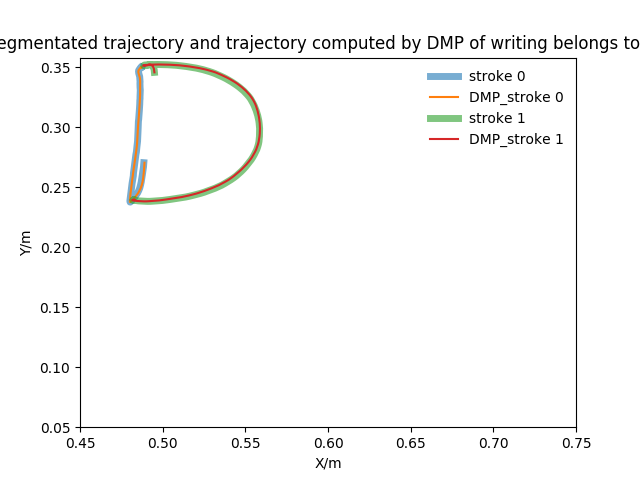
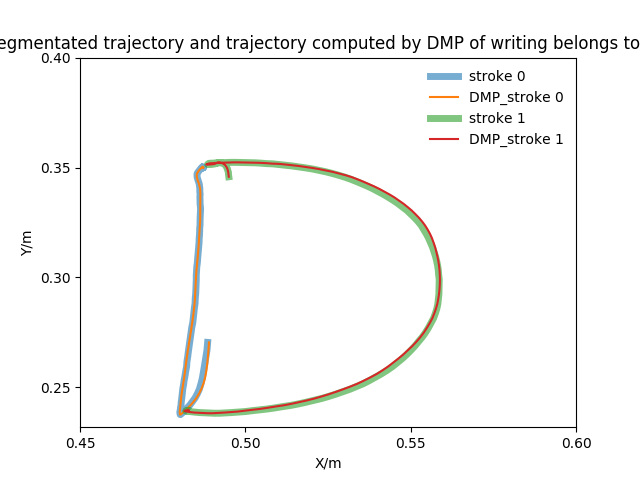
2 dmp classes

diff --git a/code/dmp_qlwj.py b/code/dmp_qlwj.py
@@ -1,10 +1,9 @@
+import numpy as np
 import math
 
-import numpy as np
-
 class DynamicMP:
-    alpha = 40
-    beta = 10
+    alpha = 0.4
+    beta = 0.8
     # self.m = 300
     freq = 120
     time_delta = 1 / freq
@@ -39,7 +38,104 @@ class DynamicMP:
                     self.x[i] = 1 - i/self.lenth
 
     def getS(self):
-        tmp = self.y[self.lenth-1] - self.y[0]
+        tmp = (self.alpha*self.beta)
+        for i in range(self.lenth):
+            self.s[i] = self.x[i] * tmp
+        # print(self.s)
+
+    def getPhi(self,x,c):
+        if self.shape == 0:
+            if abs(x - c) <= (1/self.m):
+                return math.exp(-math.pow(x-c, 2))
+            else:
+                return 0
+        elif self.shape == 1:
+            return math.exp(-math.pow(x-c, 2)/(2*0.02**2))
+
+    def getPhi_matrix(self):
+        for i in range(self.lenth):
+            self.Phi[i][i] = self.getPhi(self.x[i],self.ci)
+
+    def getF(self):
+        for i in range(self.lenth):
+            self.f[i] = self.ddy0[i] - self.alpha*(self.beta*( self.y[self.lenth-1] - self.y[i]) - self.dy[i]) + self.alpha*self.beta*self.x[i]*( self.y[self.lenth-1] - self.y[0])
+
+    def getW(self):
+        self.getX()
+        self.getS()
+        self.getF()
+        for i in range(self.m):
+            self.ci = (i+1)/self.m
+            self.getPhi_matrix()
+            st_Phi = np.dot(self.s.T ,self.Phi )
+            up = np.dot(st_Phi, self.f)
+            down = np.dot(st_Phi, self.s)
+            self.w[i] = up / down
+
+
+    def getddy1(self):
+        plot_y = np.zeros((self.lenth, 1), dtype=np.float)
+        ddy1 = np.zeros((self.lenth, 1), dtype=np.float)
+        dy1 = np.zeros((self.lenth, 1), dtype=np.float)
+        self.getW()
+        ddy1[0] = 0
+        plot_y[0] = self.y[0]
+        dy1[0] = self.dy[0]
+        for i in range(1, self.lenth):
+            up = 0
+            down = 0
+            for j in range(self.m):
+                up += self.w[j]*self.getPhi(self.x[i],(j+1)/self.m)
+                down += self.getPhi(self.x[i],(j+1)/self.m)
+            #fx = (up/down)*self.x[i]*(self.y[self.lenth-1] - self.y[0])
+            fx = (up/down)*self.x[i]*self.alpha*self.beta
+            #ddy1[i] = (self.alpha*(self.beta* (self.y[self.lenth-1]+0.2*(self.y[self.lenth-1]-self.y[0]) - plot_y[i-1]) - dy1[i-1]) + fx)
+            ddy1[i] = self.alpha*(self.beta* (self.y[self.lenth-1]+4.0*(self.y[self.lenth-1]-self.y[0]) - plot_y[i-1]) - dy1[i-1]) \
+                     + fx - self.x[i]*self.alpha*self.beta* (self.y[self.lenth-1]+4.0*(self.y[self.lenth-1]-self.y[0]) - self.y[0])
+            dy1[i] = dy1[i-1] + ddy1[i-1]*self.time_delta
+            plot_y[i] = plot_y[i-1] + dy1[i-1]*self.time_delta
+        return plot_y
+
+
+
+class Bad_DynamicMP:
+    alpha = 0.4
+    beta = 0.8
+    # self.m = 300
+    freq = 120
+    time_delta = 1 / freq
+    ci = 0
+
+
+    def __init__(self, m, y_all_i, dy_all_i, ddy0_all_i, lenth, shape=0, linear=0):
+
+        # self.ci = i/8
+        self.m = m
+        self.shape = shape
+        self.linear = linear
+        self.y = y_all_i
+        self.dy = dy_all_i
+        self.ddy0 = ddy0_all_i
+        self.lenth = lenth
+        self.x = np.zeros((self.lenth, 1), dtype=np.float)
+        self.s = np.zeros((self.lenth,1), dtype=np.float)
+        self.Phi = np.zeros((self.lenth, self.lenth), dtype=np.float)
+        self.f = np.zeros((self.lenth, 1), dtype=np.float)
+        self.w = np.zeros((self.m, 1), dtype=np.float)
+
+
+    def getX(self):
+        for i in range(self.lenth):
+            if i == 0:
+                self.x[i] = 1
+            else:
+                if self.linear == 1:
+                    self.x[i] = self.x[i-1] - self.time_delta*self.x[i-1]
+                elif self.linear == 0:
+                    self.x[i] = 1 - i/self.lenth
+
+    def getS(self):
+        tmp = (self.y[self.lenth-1] - self.y[0])
         for i in range(self.lenth):
             self.s[i] = self.x[i] * tmp
         # print(self.s)
@@ -89,7 +185,7 @@ class DynamicMP:
                 up += self.w[j]*self.getPhi(self.x[i],(j+1)/self.m)
                 down += self.getPhi(self.x[i],(j+1)/self.m)
             fx = (up/down)*self.x[i]*(self.y[self.lenth-1] - self.y[0])
-            ddy1[i] = self.alpha*(self.beta* (self.y[self.lenth-1] - plot_y[i-1]) - dy1[i-1]) + fx
+            ddy1[i] = (self.alpha*(self.beta* (self.y[self.lenth-1]+0.2*(self.y[self.lenth-1]-self.y[0]) - plot_y[i-1]) - dy1[i-1]) + fx)
             dy1[i] = dy1[i-1] + ddy1[i-1]*self.time_delta
             plot_y[i] = plot_y[i-1] + dy1[i-1]*self.time_delta
         return plot_y

diff --git a/code/main.py b/code/main.py
@@ -66,40 +66,40 @@ if __name__ == "__main__":
     # names[6] = 'mm'
     # names[7] = 'M'
     # names[8] = 'D1'
-    # names[9] = 'D2'
-    # names[10] = 'D3'
-    # names[11] = 'D4'
-    # names[12] = 'D5'
-    names[13] = 'D_JW'
-    names[14] = 'aa_JW'
-    names[15] = 'D_QL'
-    names[16] = 'aa_QL'
-    names[17] = 'D_AK'
-    names[18] = 'aa_AK'
-    names[19] = 'D_FR'
-    names[20] = 'aa_FR'
-    names[21] = 'D_GC'
-    names[22] = 'aa_GC'
-    names[23] = 'D_JCL'
-    names[24] = 'aa_JCL'
-    names[25] = 'D_LAURA'
-    names[26] = 'aa_LAURA'
-    names[27] = 'D_Leng'
-    names[28] = 'aa_Leng'
-    names[29] = 'D_Mandy'
-    names[30] = 'aa_Mandy'
-    names[31] = 'D_MEC'
-    names[32] = 'aa_MEC' 
-    names[33] = 'D_SCM'
-    names[34] = 'aa_SCM'
-    names[35] = 'D_XHP'
-    names[36] = 'aa_XHP'
-    names[37] = 'D_YFC'
-    names[38] = 'aa_YFC'
-    names[39] = 'D_YTZ'
-    names[40] = 'aa_YTZ'
-    names[41] = 'D_YY'
-    names[42] = 'aa_YY'
+    names[9] = 'D2'
+    names[10] = 'D3'
+    names[11] = 'D4'
+    names[12] = 'D5'
+    # names[13] = 'D_JW'
+    # names[14] = 'aa_JW'
+    # names[15] = 'D_QL'
+    # names[16] = 'aa_QL'
+    # names[17] = 'D_AK'
+    # names[18] = 'aa_AK'
+    # names[19] = 'D_FR'
+    # names[20] = 'aa_FR'
+    # names[21] = 'D_GC'
+    # names[22] = 'aa_GC'
+    # names[23] = 'D_JCL'
+    # names[24] = 'aa_JCL'
+    # names[25] = 'D_LAURA'
+    # names[26] = 'aa_LAURA'
+    # names[27] = 'D_Leng'
+    # names[28] = 'aa_Leng'
+    # names[29] = 'D_Mandy'
+    # names[30] = 'aa_Mandy'
+    # names[31] = 'D_MEC'
+    # names[32] = 'aa_MEC' 
+    # names[33] = 'D_SCM'
+    # names[34] = 'aa_SCM'
+    # names[35] = 'D_XHP'
+    # names[36] = 'aa_XHP'
+    # names[37] = 'D_YFC'
+    # names[38] = 'aa_YFC'
+    # names[39] = 'D_YTZ'
+    # names[40] = 'aa_YTZ'
+    # names[41] = 'D_YY'
+    # names[42] = 'aa_YY'
 
 
     # Parse CSV file
@@ -177,8 +177,8 @@ if __name__ == "__main__":
         PaintXYZ = False   # paint the xyz change according to time
         PaintRaw = False  # paint 3D raw data as scatter points
         PaintDMP = False   # paint 3D raw data and data processed by DMP as scatter points 
-        PaintPaper = False  # plot DMP processed points on 2D
-        PaintSegment = True  # plot strokes on 2D
+        PaintPaper = True  # plot DMP processed points on 2D
+        PaintSegment = False  # plot strokes on 2D
 
         plot = DataPlot(name, full_traj, dfull_traj, ddfull_traj)
         if PaintXYZ == True:

diff --git a/code/plot.py b/code/plot.py
@@ -146,8 +146,8 @@ class DataPlot:
         
         plt.figure(1)
         plt.plot([ -i for i in self.full_traj[0]], self.full_traj[2], 'r', label='original trajectory', linewidth=5, alpha=0.6)
-        plt.plot([ -i for i in dmp100[0]], dmp100[2], 'g', label='DMP kernel = 20')
-        plt.plot([ -i for i in dmp300[0]], dmp300[2], 'chocolate', label='DMP kernel = 50' )
+        # plt.plot([ -i for i in dmp100[0]], dmp100[2], 'g', label='DMP kernel = 20')
+        # plt.plot([ -i for i in dmp300[0]], dmp300[2], 'chocolate', label='DMP kernel = 50' )
         plt.plot([ -i for i in dmp600[0]], dmp600[2], 'b', label='DMP kernel = 100' )
         plt.xlabel('X/m')
         plt.ylabel('Y/m')
@@ -176,8 +176,8 @@ class DataPlot:
             dmp_stroke = dmp_process(100, stroke, vel, acc)
             plt.plot([ -i for i in stroke[0]], stroke[2], label='stroke %d' % strokes.index(stroke), linewidth=5, alpha=0.6)
             plt.plot([ -i for i in dmp_stroke[0]], stroke[2], label='DMP_stroke %d' % strokes.index(stroke))
-        plt.xticks(np.arange(0.45, 0.80, step=0.05))
-        plt.yticks(np.arange(0.05, 0.40, step=0.05))
+        plt.xticks(np.arange(0.45, 0.65, step=0.05))
+        plt.yticks(np.arange(0.25, 0.40, step=0.05))
         plt.xlabel('X/m')
         plt.ylabel('Y/m')
         plt.title('Segmentated trajectory and trajectory computed by DMP of writing belongs to %s' % self.name[2:])
